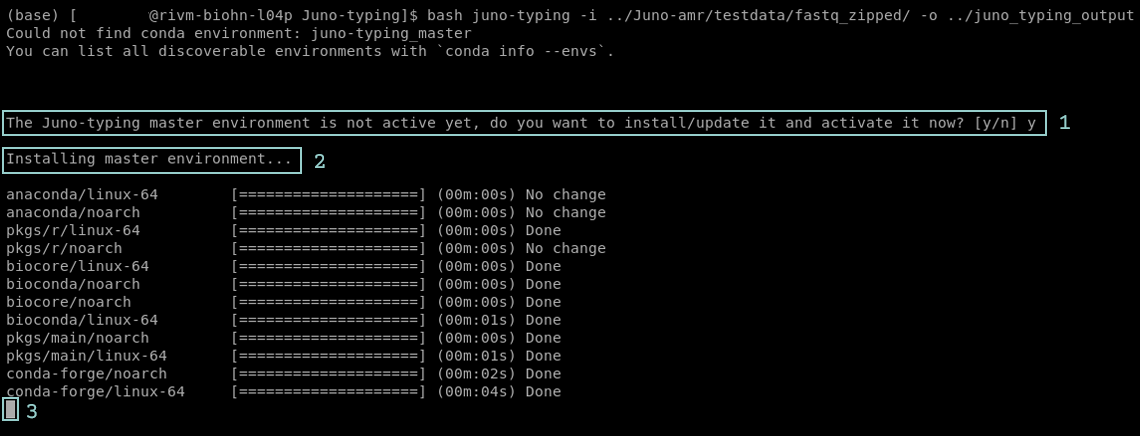
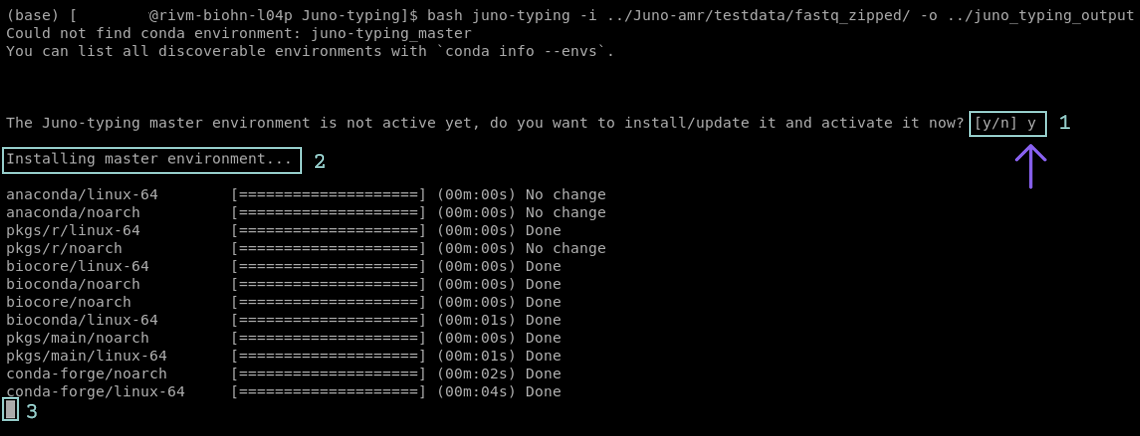
Added new images to section 1.1.3, changed some things in the text of 1.1.3, added : to the note sections for each pipeline, set a background color behind colored texts

Changed region(s): [[0.0, 0.2982, 0.9211, 0.4174], [0.0, 0.2385, 0.9211, 0.2683]]

diff --git a/docs/index.html b/docs/index.html
@@ -24,7 +24,7 @@
 <meta name="author" content="Alejandra Hernandez-Segura" />
 
 
-<meta name="date" content="2021-08-05" />
+<meta name="date" content="2021-08-06" />
 
   <meta name="viewport" content="width=device-width, initial-scale=1" />
   <meta name="apple-mobile-web-app-capable" content="yes" />
@@ -283,7 +283,7 @@ code span.wa { color: #60a0b0; font-weight: bold; font-style: italic; } /* Warni
 <div id="header">
 <h1 class="title">Bioinformatics Pipelines for Bacteriology (IDS, RIVM)</h1>
 <p class="author"><em>Alejandra Hernandez-Segura</em></p>
-<p class="date" style="margin-top: 1.5em;"><em>2021-08-05</em></p>
+<p class="date" style="margin-top: 1.5em;"><em>2021-08-06</em></p>
 </div>
 <div id="introduction-and-general-instructions" class="section level1" number="1">
 <h1><span class="header-section-number">1</span> Introduction and General Instructions</h1>
@@ -369,25 +369,25 @@ FIGURE 1.4: Pipelines can be downloaded directly from their GitLab website.
 <div id="what-to-expect" class="section level3" number="1.1.3">
 <h3><span class="header-section-number">1.1.3</span> What to expect while running a Juno pipeline</h3>
 <p>The Juno pipelines usually run automated. Minimum input of the user is required. Detailed information on the required input can be found in the section for the specific pipeline. Sometimes a pipeline can ask for input from the user to agree on installing software or a database (<a href="#installation-fig">Figure 1.5</a> step 1), if you get asked to give permission, please do so in order to run the pipeline. This is most often in the form of pressing y followed by enter (<a href="#installation-fig">Figure 1.5</a> step 2).</p>
-<p>The first time a Juno pipeline is executed, the preparation might take longer than expected. This is due to the installation of the basic software that is required for the pipeline to run. Be patient! You can recognize that the pipeline is still preparing when it shows a blinking box (<a href="#installation-fig">Figure 1.5</a> step 3) or when it keeps printing lines inside the terminal.</p>
+<p>The first time a Juno pipeline is executed, the preparation might take longer than expected. This is due to the installation of the basic software that is required for the pipeline to run. Be patient! You can recognize that the pipeline is still preparing when it shows a blinking box (<a href="#installation-fig">Figure 1.5</a> step 3) or when it keeps printing lines inside the terminal. If the installation takes longer than 1 hour check the section <a href="general-troubleshooting.html#general-troubleshooting">General Troubleshooting</a>.</p>
 <div class="figure"><span id="fig:installation-fig"></span>
 <img src="figures/show_installation.png" alt="Screenshot of the Juno-typing pipeline in the terminal. The pipeline asks to create an environment(step 1). User input is required. To proceed the pipeline press y followed by enter. If executed correctly the pipeline will now show that it is creating the environment(step 2). The blinking box at the bottom indicates that the pipeline is still installing/updating(step 3)."  />
 <p class="caption">
 FIGURE 1.5: Screenshot of the Juno-typing pipeline in the terminal. The pipeline asks to create an environment(step 1). User input is required. To proceed the pipeline press y followed by enter. If executed correctly the pipeline will now show that it is creating the environment(step 2). The blinking box at the bottom indicates that the pipeline is still installing/updating(step 3).
 </p>
 </div>
-<p>After installation the Juno pipeline will start running. Now the terminal shows <span style="color:#f4d03f;">yellow</span> and/or <span style="color:#00b16a;">green</span> messages. These messages indicate that the pipeline is being executed (<a href="#snakemake-complete-run-fig">Figure 1.6</a>). At the start of the yellow messages the number of steps is shown (<a href="#snakemake-complete-run-fig">Figure 1.6</a> step 1). The amount of steps indicate how much time it will take for the pipeline to finish. Once the pipeline is finished there will be a message printed that all the steps are performed (<a href="#snakemake-complete-run-fig">Figure 1.6</a> step 2).</p>
+<p>After installation the Juno pipeline will start running. Now the terminal shows <span style="color:#f4d03f;background:#2e3131;padding:5px">yellow</span> and/or <span style="color:#00b16a;background:#2e3131;padding:5px">green</span> messages. These messages indicate that the pipeline is being executed (<a href="#snakemake-complete-run-fig">Figure 1.6</a>). At the start of the yellow messages the number of steps is shown (<a href="#snakemake-complete-run-fig">Figure 1.6</a> step 1). The amount of steps indicate the progress of the pipeline in %. Once the pipeline is finished there will be a message printed that all the steps are performed (<a href="#snakemake-complete-run-fig">Figure 1.6</a> step 2).</p>
 <div class="figure"><span id="fig:snakemake-complete-run-fig"></span>
 <img src="figures/snakemake_complete_run.png" alt="Screenshot of the Juno AMR pipeline in the terminal. The pipeline is executing all required jobs to create the requested results. The terminal shows a list of all the jobs that will be executed(step 1). Furthermore there is green and yellow text that shows the steps of the pipeline. At the bottom of the terminal there is a line that shows the pipeline is finished(step 2)."  />
 <p class="caption">
 FIGURE 1.6: Screenshot of the Juno AMR pipeline in the terminal. The pipeline is executing all required jobs to create the requested results. The terminal shows a list of all the jobs that will be executed(step 1). Furthermore there is green and yellow text that shows the steps of the pipeline. At the bottom of the terminal there is a line that shows the pipeline is finished(step 2).
 </p>
 </div>
-<p>If a step fails, you will likely see <span style="color:#d64541;">red</span> text appearing on the screen (<a href="#snakemake-complete-run-fig">Figure 1.7</a>). The pipeline might proceed the other steps. If the pipeline fails check the section <a href="general-troubleshooting.html#general-troubleshooting">General Troubleshooting</a> for more help or any other problems you may encounter.</p>
+<p>If a step fails, you will likely see <span style="color:#d64541;background:#2e3131;padding:5px">red</span> text appearing on the screen (<a href="#snakemake-complete-run-fig">Figure 1.7</a>). The pipeline might proceed the other steps. If the pipeline fails check the section <a href="general-troubleshooting.html#general-troubleshooting">General Troubleshooting</a> for more help or any other problems you may encounter.</p>
 <div class="figure"><span id="fig:snakemake-error-fig"></span>
-<img src="figures/screenshot_snakemake_error.png" alt="Screenshot of the Juno AMR pipeline in the terminal. The pipeline failed on one of the steps. The red text shows an error message(step 1)."  />
+<img src="figures/screenshot_snakemake_error.png" alt="Screenshot of the Juno AMR pipeline in the terminal. The pipeline failed on one of the steps. The red text shows an error message."  />
 <p class="caption">
-FIGURE 1.7: Screenshot of the Juno AMR pipeline in the terminal. The pipeline failed on one of the steps. The red text shows an error message(step 1).
+FIGURE 1.7: Screenshot of the Juno AMR pipeline in the terminal. The pipeline failed on one of the steps. The red text shows an error message.
 </p>
 </div>
 <p><strong>Note:</strong> Do not keep all your data (including results) on the scratch_dir partition. You are allowed to keep 400GB max. With sequencing data, the storage space can get full quite fast.</p>

diff --git a/docs/juno-amr.html b/docs/juno-amr.html
@@ -24,7 +24,7 @@
 <meta name="author" content="Alejandra Hernandez-Segura" />
 
 
-<meta name="date" content="2021-08-05" />
+<meta name="date" content="2021-08-06" />
 
   <meta name="viewport" content="width=device-width, initial-scale=1" />
   <meta name="apple-mobile-web-app-capable" content="yes" />
@@ -301,7 +301,7 @@ text-align: justify}
 <p>Place all your samples in one folder, no subfolders, all file types should be the same format. Option is to choose between .fasta and .fastq, but those cannot be combined.</p>
 <p>Besides giving input it is also required to select a species. The <code>--species</code> parameter is required for PointFinder in order to find the chromosomal mutations. If you don’t know the species you can fill this parameter with ‘other’. This way the pipeline will run ResFinder without running PointFinder.</p>
 <p>The output of the pipeline will be collected in the folder ‘output’ within the working directory (the directory where the pipeline is active). If you want the output to be in a different location it is possible to do this with the <code>--output</code> parameter.</p>
-<p><strong>Note</strong> all samples in the directory should be the same species and the same file format.</p>
+<p><strong>Note:</strong> all samples in the directory should be the same species and the same file format.</p>
 </div>
 <div id="download-the-pipeline-2" class="section level3" number="5.1.2">
 <h3><span class="header-section-number">5.1.2</span> Download the pipeline</h3>
@@ -359,7 +359,7 @@ text-align: justify}
 <li>The path to your input directory</li>
 <li>The path to where the pipeline is installed</li>
 </ul>
-<p><strong>Note</strong> I cannot help you without this information, if information is missing there will be an delay in troubleshooting the problem.</p>
+<p><strong>Note:</strong> I cannot help you without this information, if information is missing there will be an delay in troubleshooting the problem.</p>
 
 </div>
 </div>

diff --git a/docs/triumph-run.html b/docs/triumph-run.html
@@ -24,7 +24,7 @@
 <meta name="author" content="Alejandra Hernandez-Segura" />
 
 
-<meta name="date" content="2021-08-05" />
+<meta name="date" content="2021-08-06" />
 
   <meta name="viewport" content="width=device-width, initial-scale=1" />
   <meta name="apple-mobile-web-app-capable" content="yes" />
@@ -541,7 +541,7 @@ alejandra.hernandez.segura@rivm.nl) for more details:
 <li>The path to your input directory</li>
 <li>The path to where the pipeline is installed</li>
 </ul>
-<p><strong>Note</strong> I cannot help you without this information, if information is missing there will be an delay in troubleshooting the problem.</p>
+<p><strong>Note:</strong> I cannot help you without this information, if information is missing there will be an delay in troubleshooting the problem.</p>
 
 </div>
 </div>

diff --git a/docs/juno-assembly.html b/docs/juno-assembly.html
@@ -24,7 +24,7 @@
 <meta name="author" content="Alejandra Hernandez-Segura" />
 
 
-<meta name="date" content="2021-08-05" />
+<meta name="date" content="2021-08-06" />
 
   <meta name="viewport" content="width=device-width, initial-scale=1" />
   <meta name="apple-mobile-web-app-capable" content="yes" />
@@ -390,7 +390,7 @@ text-align: justify}
 <li>The path to your input directory</li>
 <li>The path to where the pipeline is installed</li>
 </ul>
-<p><strong>Note</strong> I cannot help you without this information, if information is missing there will be an delay in troubleshooting the problem.</p>
+<p><strong>Note: </strong> I cannot help you without this information, if information is missing there will be an delay in troubleshooting the problem.</p>
 
 </div>
 </div>

diff --git a/docs/Myco-lofreq.html b/docs/Myco-lofreq.html
@@ -24,7 +24,7 @@
 <meta name="author" content="Alejandra Hernandez-Segura" />
 
 
-<meta name="date" content="2021-08-05" />
+<meta name="date" content="2021-08-06" />
 
   <meta name="viewport" content="width=device-width, initial-scale=1" />
   <meta name="apple-mobile-web-app-capable" content="yes" />
@@ -351,7 +351,7 @@ text-align: justify}
 <li>The path to your input directory</li>
 <li>The path to where the pipeline is installed</li>
 </ul>
-<p><strong>Note</strong> I cannot help you without this information, if information is missing there will be an delay in troubleshooting the problem.</p>
+<p><strong>Note:</strong> I cannot help you without this information, if information is missing there will be an delay in troubleshooting the problem.</p>
 
 </div>
 </div>

diff --git a/docs/juno-annotation.html b/docs/juno-annotation.html
@@ -24,7 +24,7 @@
 <meta name="author" content="Alejandra Hernandez-Segura" />
 
 
-<meta name="date" content="2021-08-05" />
+<meta name="date" content="2021-08-06" />
 
   <meta name="viewport" content="width=device-width, initial-scale=1" />
   <meta name="apple-mobile-web-app-capable" content="yes" />
@@ -509,7 +509,7 @@ text-align: justify}
 <li>The path to your input directory</li>
 <li>The path to where the pipeline is installed</li>
 </ul>
-<p><strong>Note</strong> I cannot help you without this information, if information is missing there will be an delay in troubleshooting the problem.</p>
+<p><strong>Note:</strong> I cannot help you without this information, if information is missing there will be an delay in troubleshooting the problem.</p>
 
 </div>
 </div>

diff --git a/docs/juno-blast.html b/docs/juno-blast.html
@@ -24,7 +24,7 @@
 <meta name="author" content="Alejandra Hernandez-Segura" />
 
 
-<meta name="date" content="2021-08-05" />
+<meta name="date" content="2021-08-06" />
 
   <meta name="viewport" content="width=device-width, initial-scale=1" />
   <meta name="apple-mobile-web-app-capable" content="yes" />
@@ -365,7 +365,7 @@ text-align: justify}
 <li>The path to your input directory</li>
 <li>The path to where the pipeline is installed</li>
 </ul>
-<p><strong>Note</strong> I cannot help you without this information, if information is missing there will be an delay in troubleshooting the problem.</p>
+<p><strong>Note:</strong> I cannot help you without this information, if information is missing there will be an delay in troubleshooting the problem.</p>
 
 </div>
 </div>

diff --git a/docs/juno-typing.html b/docs/juno-typing.html
@@ -24,7 +24,7 @@
 <meta name="author" content="Alejandra Hernandez-Segura" />
 
 
-<meta name="date" content="2021-08-05" />
+<meta name="date" content="2021-08-06" />
 
   <meta name="viewport" content="width=device-width, initial-scale=1" />
   <meta name="apple-mobile-web-app-capable" content="yes" />
@@ -401,7 +401,7 @@ text-align: justify}
 <li>The path to your input directory</li>
 <li>The path to where the pipeline is installed</li>
 </ul>
-<p><strong>Note</strong> I cannot help you without this information, if information is missing there will be an delay in troubleshooting the problem.</p>
+<p><strong>Note:</strong> I cannot help you without this information, if information is missing there will be an delay in troubleshooting the problem.</p>
 
 </div>
 </div>

diff --git a/docs/triumph-project.html b/docs/triumph-project.html
@@ -24,7 +24,7 @@
 <meta name="author" content="Alejandra Hernandez-Segura" />
 
 
-<meta name="date" content="2021-08-05" />
+<meta name="date" content="2021-08-06" />
 
   <meta name="viewport" content="width=device-width, initial-scale=1" />
   <meta name="apple-mobile-web-app-capable" content="yes" />
@@ -344,7 +344,7 @@ text-align: justify}
 <li>The path to your input directory</li>
 <li>The path to where the pipeline is installed</li>
 </ul>
-<p><strong>Note</strong> I cannot help you without this information, if information is missing there will be an delay in troubleshooting the problem.</p>
+<p><strong>Note:</strong> I cannot help you without this information, if information is missing there will be an delay in troubleshooting the problem.</p>
 
 </div>
 </div>

diff --git a/docs/general-troubleshooting.html b/docs/general-troubleshooting.html
@@ -24,7 +24,7 @@
 <meta name="author" content="Alejandra Hernandez-Segura" />
 
 
-<meta name="date" content="2021-08-05" />
+<meta name="date" content="2021-08-06" />
 
   <meta name="viewport" content="width=device-width, initial-scale=1" />
   <meta name="apple-mobile-web-app-capable" content="yes" />

diff --git a/docs/juno-deinterleave.html b/docs/juno-deinterleave.html
@@ -24,7 +24,7 @@
 <meta name="author" content="Alejandra Hernandez-Segura" />
 
 
-<meta name="date" content="2021-08-05" />
+<meta name="date" content="2021-08-06" />
 
   <meta name="viewport" content="width=device-width, initial-scale=1" />
   <meta name="apple-mobile-web-app-capable" content="yes" />
